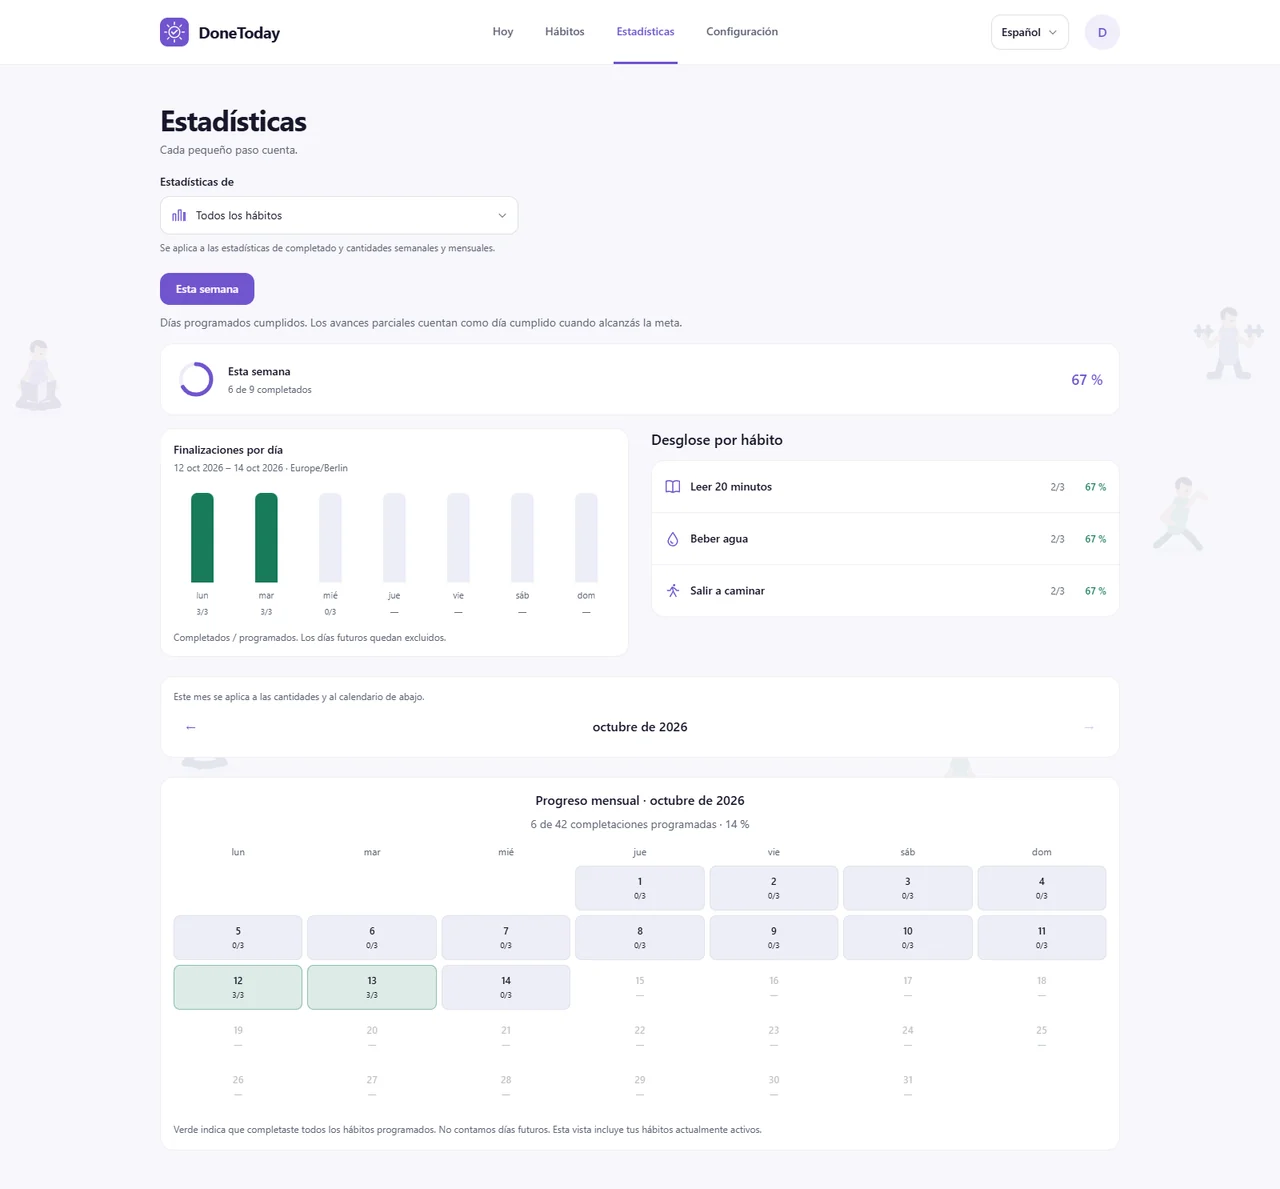
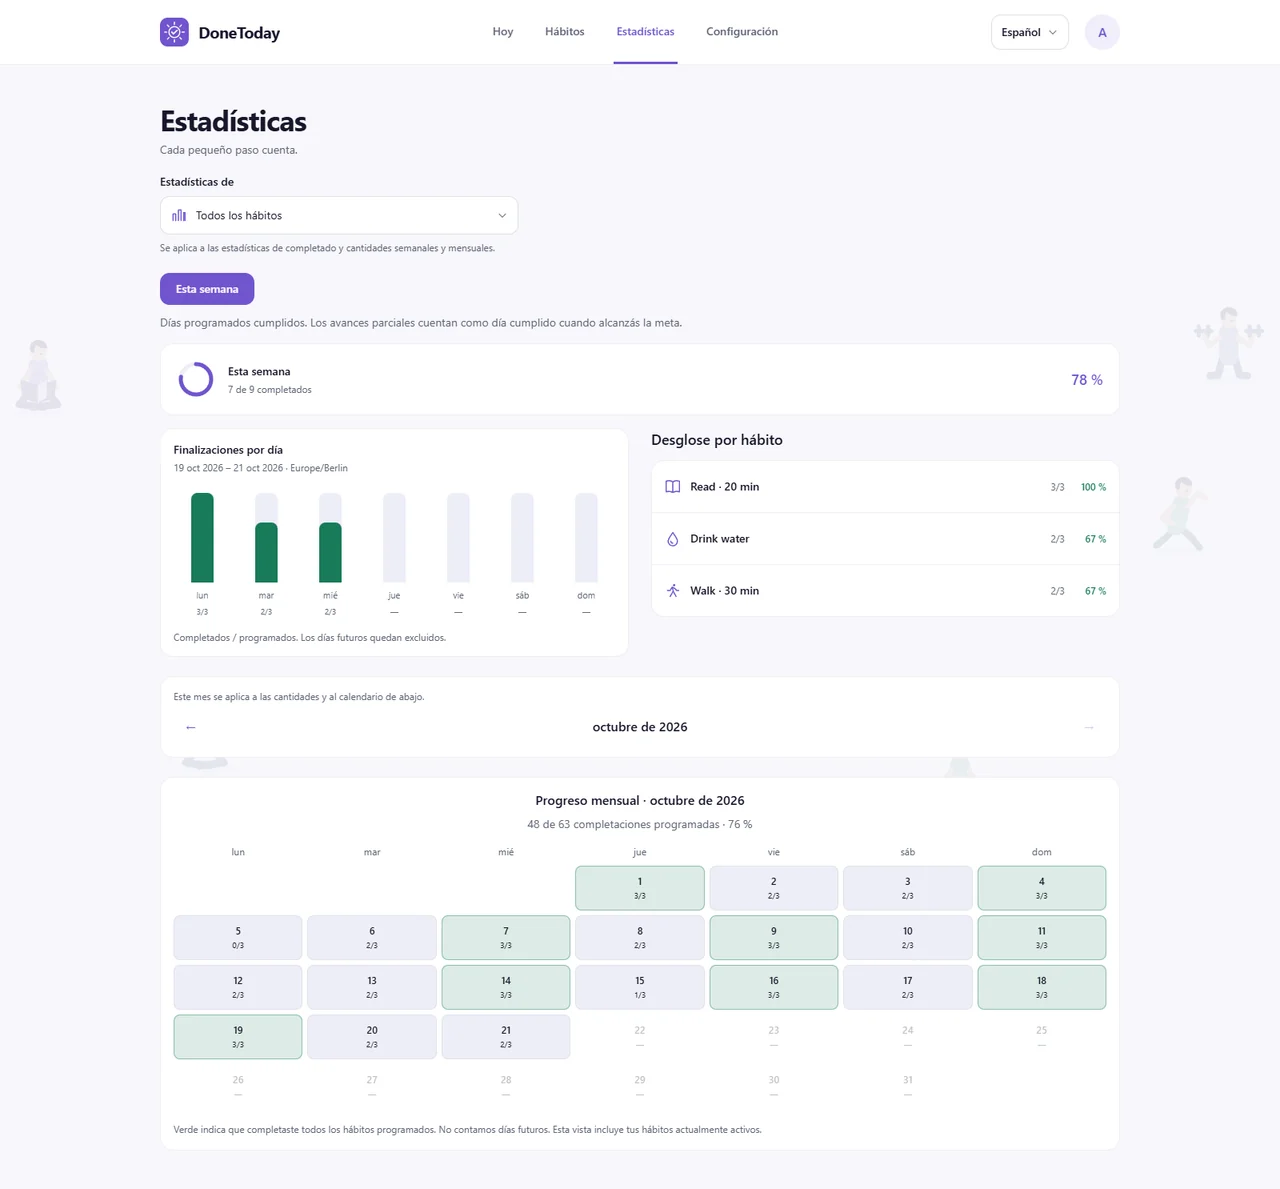
Add MIT license and polish portfolio demo presentation

diff --git a/README.es.md b/README.es.md
@@ -10,17 +10,19 @@ Una aplicación de hábitos para quienes quieren crear rutinas, registrar sus av
 
 ### Hoy: hábitos programados, rachas y progreso semanal
 
-![Pantalla Hoy con tres hábitos programados y un resumen semanal coherente de 6 de 9 completados](docs/images/today.webp)
+![Pantalla Hoy con tres hábitos programados y un resumen semanal coherente de 7 de 9 completados](docs/images/today.webp)
 
 ### Estadísticas: completados diarios, desglose por hábito y calendario mensual
 
-![Estadísticas con lunes y martes completos, miércoles pendiente y fechas futuras excluidas](docs/images/statistics.webp)
+![Estadísticas con tres semanas de historial variado, 7 de 9 completados semanales y 48 de 63 mensuales](docs/images/statistics.webp)
 
-Las capturas usan datos de demo con una fecha de referencia común: 14 de octubre de 2026. Muestran la interfaz en español; también está disponible en inglés y alemán.
+Las capturas usan una sola cuenta de demo local con tres semanas de historial variado y una fecha de referencia común: 21 de octubre de 2026. Muestran la interfaz en español; también está disponible en inglés y alemán.
 
 ## Demo en vivo
 
 [Abrir DoneToday](https://donetoday-15xl.onrender.com)
+
+El hosting gratuito de Render se suspende por inactividad; la primera carga puede tardar alrededor de un minuto.
 
 Podés explorar con la opción de invitado sin registrarte o crear una cuenta con confirmación de email. El acceso con Google está disponible cuando se configuran las credenciales del proveedor.
 
@@ -170,3 +172,7 @@ Las rutas de hábitos, perfil y progreso requieren una cuenta autenticada, inclu
 | POST | `/api/profile/delete` | Verificar y eliminar permanentemente la cuenta actual |
 
 Más información: [hábitos con metas](docs/measurable-habits.md), [comportamiento de la interfaz](docs/ux-improvements.md), [guía del frontend](DoneToday.Web/README.md). El historial de versiones está en [CHANGELOG.md](CHANGELOG.md).
+
+## Licencia
+
+[MIT](LICENSE) — Copyright (c) 2026 Elias Joel Olguin.

diff --git a/README.md b/README.md
@@ -10,17 +10,19 @@ A habit tracker for people who want to build routines, record daily progress, an
 
 ### Today: scheduled habits, streaks, and weekly progress
 
-![Today view with three scheduled habits and a consistent weekly summary of 6 out of 9 completions](docs/images/today-en.webp)
+![Today view with three scheduled habits and a consistent weekly summary of 7 out of 9 completions](docs/images/today-en.webp)
 
 ### Statistics: daily completions, habit breakdown, and monthly calendar
 
-![Statistics view showing completed Monday and Tuesday, a pending Wednesday, and excluded future dates](docs/images/statistics-en.webp)
+![Statistics view with three weeks of varied history, 7 of 9 weekly completions, and 48 of 63 monthly completions](docs/images/statistics-en.webp)
 
-Screenshots use demo data with a shared reference date of October 14, 2026. The English interface is shown; Spanish and German are also available.
+Screenshots use one local demo account with three weeks of varied history and a shared reference date of October 21, 2026. The English interface is shown; Spanish and German are also available.
 
 ## Live demo
 
 [Open DoneToday](https://donetoday-15xl.onrender.com)
+
+Hosted on Render Free, which sleeps when idle; the first load may take around a minute.
 
 Use the guest option to explore without registering, or create an account with email confirmation. Google sign-in is available when provider credentials are configured.
 
@@ -170,3 +172,7 @@ Habit, profile, and progress routes require an authenticated account, including 
 | POST | `/api/profile/delete` | Verify and permanently delete the current account |
 
 More detail: [measurable habits](docs/measurable-habits.md), [UX behavior](docs/ux-improvements.md), [frontend guide](DoneToday.Web/README.md). Release history lives in [CHANGELOG.md](CHANGELOG.md).
+
+## License
+
+[MIT](LICENSE) — Copyright (c) 2026 Elias Joel Olguin.
